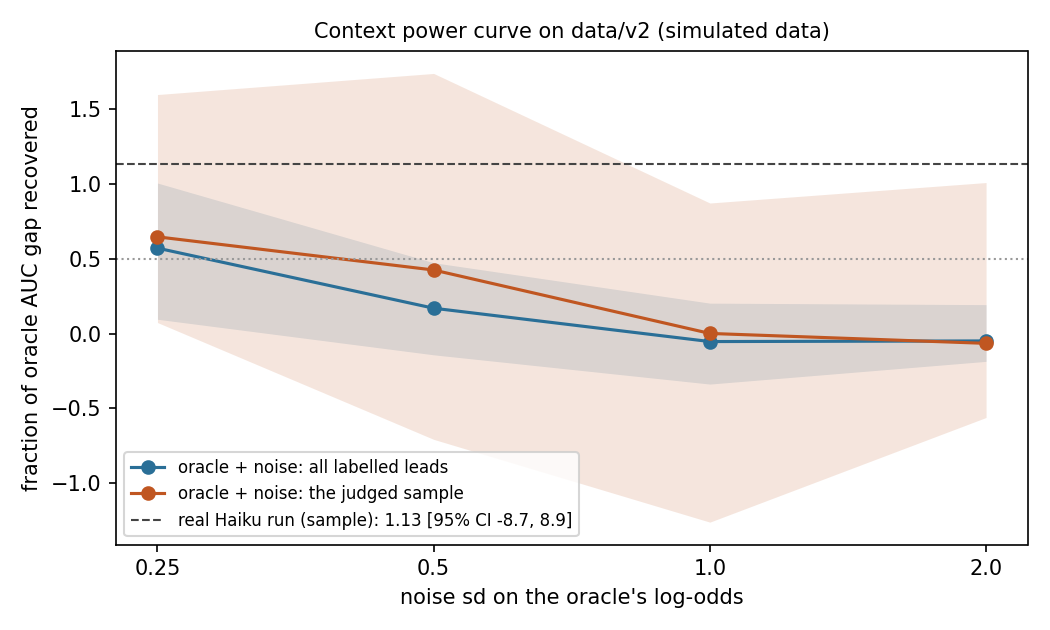
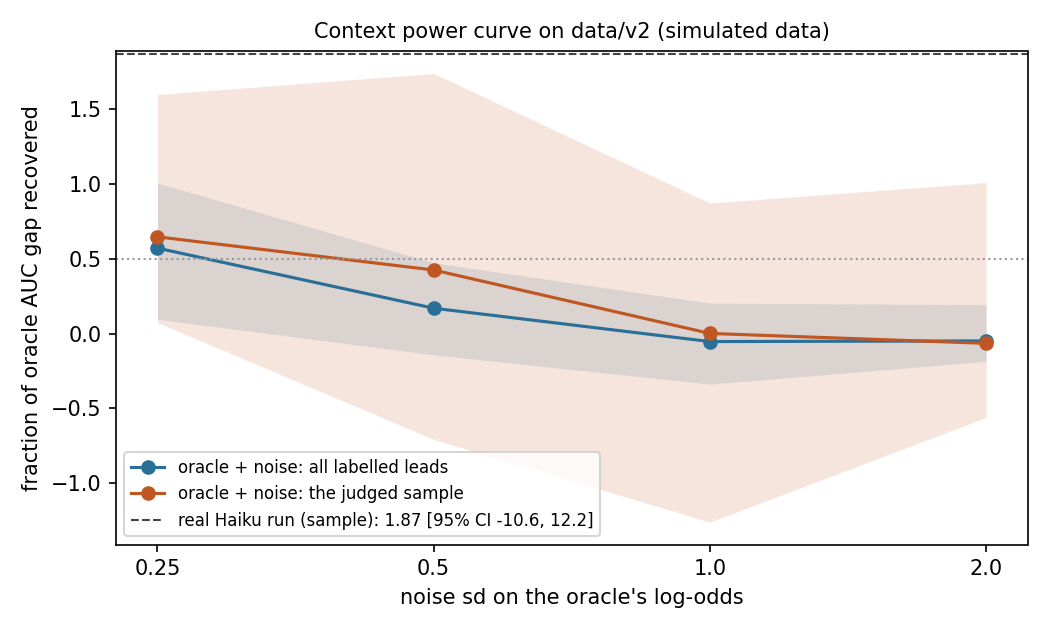
Phase 6 report: orchestrator decisions R12-R15, R12 coefficient row PASS, AUC gap unmeasurable; cache rerun (0 API calls)

Changed region(s): [[0.3657, 0.6937, 0.579, 0.8444]]

diff --git a/reports/phase6.md b/reports/phase6.md
@@ -16,27 +16,50 @@ simulated data** (`data/v2`, generator v2 as merged at 01c56f4).
   detector on the same rows (R6).
 - The context features are close to orthogonal to the formula: combined context score vs formula logit
   r = 0.13; largest single column |r| = 0.33.
-- **But the planted persona is worth very little AUC.** Even the generator's own true probability gains only
+- **The planted persona is worth very little AUC.** Even the generator's own true probability gains only
   0.0037 AUC from the persona term over all labelled leads (0.0095 on the persona-enriched sample); the
-  cross-fitted oracle gap on the sample is 0.0037 [-0.0050, 0.0114], not distinguishable from zero. The
-  "recover more than half of the gap" criterion cannot be passed or failed meaningfully at n = 1,000, and no
-  individual `persona` weight is significant. **Two of the four acceptance criteria fail** (below).
+  cross-fitted oracle gap on the sample is 0.0037 [-0.0050, 0.0114], not distinguishable from zero. Under
+  ruling R12 that criterion is recorded as **unmeasurable** at this effect size (not passed), and acceptance
+  moves to the coefficient level.
+- **R12 coefficient criterion: PASS.** With persona pooled at the feature level (R13), the weight of
+  `ctx_persona_group=non_buyer` next to the formula is **-0.606 [-1.067, -0.179]**, against the oracle
+  persona weight **-0.612 [-1.021, -0.209]** on the same 1,000 rows. Caveat: inside the full combined model
+  (all 13 context columns) the same column is -0.383 [-0.887, 0.156], not significant; the other judgments
+  share part of its signal.
+
+## Orchestrator decisions (review of Phase 6)
+
+- **R12 (ADR 0016).** The AUC-gap criterion ("recover more than half of the planted gap") is recorded as
+  unmeasurable at the planted effect size (oracle gap +0.0037 [-0.005, +0.011]); it is not restated as
+  passed. The acceptance for context features from now on is coefficient-level: the context feature's
+  weight must have a 95% CI excluding zero and lie within the oracle weight's CI on the same rows.
+- **R13 (ADR 0016).** Persona is pooled at the feature level in `emva/context/features.py`:
+  `ctx_persona_group` in {buyer, non_buyer (vendor, student, job_seeker, competitor, nonprofit,
+  agency_pitching), unclear}, reference buyer. The contract enum stays fine-grained (no prompt or contract
+  version bump, no new API calls). **The pooling rule was chosen after seeing the per-level results of this
+  run.** It is applied to the unchanged cached judgments and is now fixed in code, so the next customer run
+  is pre-registered. The per-level weights stay below as secondary, marked underpowered.
+- **R14.** `agency_pitching` stays in the contract; Haiku's vendor/agency confusion (38 of 67 agency leads
+  called `vendor`) is documented, and both pool to non_buyer under R13.
+- **R15.** Sample design (300 persona / 700 other, labelled leads only, seed 0) accepted; cross-fitting is
+  the primary comparison, the time split secondary.
+- ADR 0014 (context contract) is Accepted. `matplotlib` stays pinned in `requirements.txt`. The `.env`
+  loader is shared in `emva/env.py` (agent and `scripts/paraphrase_templates.py`).
 
 ## Acceptance
 
 | criterion | result | evidence | pass/fail |
 |---|---|---|---|
-| Combined model recovers > 1/2 of the planted context-only gap | fraction recovered **1.13 [95% CI -8.66, 8.86]**; formula + context AUC diff 0.0042 [-0.0074, 0.0163] (p 0.47); oracle gap 0.0037 [-0.0050, 0.0114] (p 0.38) | 6.6 table below; gap computed in this harness (Phase 4 oracle numbers were not on `origin` when this finished) | **FAIL** (not demonstrated: the gap itself is not significant, so its fraction has no usable CI) |
-| `persona` weights individually significant | 0 of 7 persona levels have a CI excluding 0 (e.g. competitor -0.35 [-0.97, 0.20], job_seeker -0.14 [-0.79, 0.45]) | weights table below | **FAIL** |
-| Correlation of context features with the formula score reported and < 0.5 | combined context score r = 0.134; max single-column \|r\| = 0.333 (`is_real_business=no`) | correlation table below | PASS |
-| Same brief + model reproduces scores exactly from cache; brief edit gives a new `brief_hash` and a documented retrain | rerun: 1,000 hits, 0 requests, identical CSV; temp brief: new hash, all misses reported by `--dry-run` with no client | `tests/test_context.py::test_committed_cache_reproduces_the_committed_judgments_without_the_api`, `::test_brief_edit_is_a_new_hash_and_dry_run_reports_misses_without_calling`, `::test_dry_run_cli_reports_the_retrain_without_calling`; ADR 0014 | PASS |
+| **R12 (acceptance): pooled persona weight has a 95% CI excluding 0 and lies inside the oracle weight's CI, same rows** | `ctx_persona_group=non_buyer` in formula + `ctx_persona_group`: **-0.606 [-1.067, -0.179]**; oracle persona indicator: **-0.612 [-1.021, -0.209]**. Formula + `ctx_persona_group` AUC +0.0049 [-0.0048, 0.0143] (p 0.30). In the full 13-column combined model the column is -0.383 [-0.887, 0.156] | "R12 acceptance" table below; `emva.eval.context_harness.coefficient_criterion` | **PASS** |
+| Combined model recovers > 1/2 of the planted context-only gap (plan) | fraction recovered 1.87 [95% CI -10.6, 12.2]; formula + context AUC +0.0070 [-0.0051, 0.0195] (p 0.25); oracle gap +0.0037 [-0.0050, 0.0114] (p 0.38); model-free ceiling 0.0037 (all labelled) / 0.0095 (sample) | 6.5 and 6.6 below | **unmeasurable** (R12; not passed) |
+| `persona` weights individually significant (plan, per contract level) | 0 of 7 unpooled levels significant (e.g. competitor -0.35 [-0.97, 0.20]) | secondary table below | superseded by R12/R13 (underpowered at n = 1,000) |
+| Correlation of context features with the formula score reported and < 0.5 | combined context score r = 0.136; max single-column \|r\| = 0.333 (`is_real_business=no`) | correlation table below | PASS |
+| Same brief + model reproduces scores exactly from cache; brief edit gives a new `brief_hash` and a documented retrain | rerun after the R13 change: 1,000 hits, 0 requests, identical CSV; temp brief: new hash, all misses reported by `--dry-run` with no client | `tests/test_context.py::test_committed_cache_reproduces_the_committed_judgments_without_the_api`, `::test_brief_edit_is_a_new_hash_and_dry_run_reports_misses_without_calling`, `::test_dry_run_cli_reports_the_retrain_without_calling`; ADR 0014 | PASS |
 
-Per ground rule 5 the failing criteria are reported, not tuned. Nothing was changed after seeing the results
-except one exploratory line, clearly marked (a pooled non-buyer indicator), which is not used for
-acceptance. For the orchestrator: the evidence says the agent detects the persona (87% recall, 82%
-precision for "non-buyer") and that its pooled persona signal carries the same weight as the oracle
-(-0.64 [-1.09, -0.23] vs oracle -0.61 [-1.02, -0.21] on the same rows), but that the planted effect (-1.0 on
-8% of leads) is too small in AUC terms for the plan's criterion at this sample size. See "Open questions".
+The first submission of this report failed the two plan criteria (AUC gap, per-level persona weights);
+the orchestrator's rulings R12 and R13 replaced them. Nothing was re-run against the API; the pooled
+feature is computed from the same cached judgments. Formula + context AUC moved from +0.0042 to +0.0070
+because the design changed from 18 to 13 columns (unpooled to pooled persona).
 
 ## What was built
 
@@ -44,10 +67,10 @@ precision for "non-buyer") and that its pooled persona signal carries the same w
 |---|---|---|
 | 6.1 contract | `emva/context/contract.py` | `JUDGMENTS` (five enums), `reason` <= 30 words, `RESPONSE_SCHEMA` sent as `output_config` JSON schema (enums enforced server-side), `validate` raises `ContractError` = parse error |
 | 6.2 lead card | `emva/context/card.py` | `LeadCard(what_to_solve, company_typed, job_title, email_domain)`; test asserts no enrichment, spend, CRM, hiring, bucketed answers, telemetry, stage or outcome reaches the text |
-| 6.3 features | `emva/context/features.py` | `ctx_<judgment>` with declared levels, references yes / buyer / specific / none / partial, 18 fixed columns via `design.fixed_design` (ADR 0009); one stamp per file enforced; the legacy `context_score` file still works (baseline byte identity) |
+| 6.3 features | `emva/context/features.py` | `ctx_<judgment>` with declared levels; persona pooled into `ctx_persona_group` (buyer / non_buyer / unclear, `PERSONA_GROUPS`, R13); references yes / buyer / specific / none / partial; 13 fixed columns via `design.fixed_design` (ADR 0009); one stamp per file enforced; the legacy `context_score` file still works (baseline byte identity) |
 | 6.4 runtime | `emva/context/agent.py`, `emva/context/cache.py` | SDK client with `anthropic-workspace-id` (refuses to run without it), SDK retries off; `io.clean` before any call; transport errors (connection, timeout, 408/409/429/5xx) retried 1-2-4-8 s and logged; 400/401/403/404 raise; parse errors recorded and cached, never retried; `(brief_hash, prompt_version, model_id)` + `card_hash` on every row; <= 8 workers; `--dry-run` |
 | pipeline hook | `emva/pipeline.py` | `--context` now goes through `context_features`, which returns the judgment dummies or the legacy `context_logit`; formula vs formula+context on the same rows as in Phase 0 |
-| 6.5 harness | `emva/eval/context_harness.py` | sample, cross-fitting, oracle power curve, gap ratio with shared resamples, weight CIs, confusion, correlation, boilerplate recall, true-probability ceiling |
+| 6.5 harness | `emva/eval/context_harness.py` | sample, cross-fitting, oracle power curve, gap ratio with shared resamples, R12 `coefficient_criterion`, weight CIs (pooled and unpooled), confusion, correlation, boilerplate recall, true-probability ceiling |
 | 6.6 run | `scripts/run_context_agent.py`, `data/v2/context/` | `sample_ids.csv`, `cache.json` (committed), `context_judgments.csv`, `runs.jsonl` (counts per run) |
 
 Prompt (`PROMPT_VERSION = "judgments-v1"`): the system prompt defines each judgment and its values in
@@ -81,7 +104,8 @@ Reproduce: `python -m emva.eval.context_harness evaluate --data data/v2 --plot r
 
 The curve is flat and noisy because the gap it normalises by is tiny: at sd 0.25 the oracle keeps ~60% of
 a 0.0025 to 0.0037 AUC gap, and at sd >= 1 it keeps nothing on average. The real run's point estimate
-(1.13) sits above the curve but its CI spans the whole plot.
+(1.87) sits above the curve but its CI spans far beyond the plot; this is why R12 moves acceptance to
+the coefficient level.
 
 ### 6.5 Power curve (oracle persona feature + noise)
 
@@ -103,6 +127,15 @@ a 0.0025 to 0.0037 AUC gap, and at sd >= 1 it keeps nothing on average. The real
 | 1.000 | 0.780 | 0.001 | -1.262 | 0.873 |
 | 2.000 | 0.779 | -0.066 | -0.562 | 1.010 |
 
+### R12 acceptance: pooled persona weight vs oracle weight (same rows)
+
+| model (formula + ...) | weight of the persona column [95% CI] |
+|---|---|
+| `ctx_persona_group` (buyer / non_buyer / unclear): `ctx_persona_group=non_buyer` | -0.606 [-1.067, -0.179] |
+| true persona indicator (oracle) | -0.612 [-1.021, -0.209] |
+
+CI excludes zero: True; point inside the oracle CI: True. **R12: PASS.** Formula + `ctx_persona_group` AUC 0.7845, diff vs formula 0.0049 [-0.0048, 0.0143], p 0.302. The same column in the full combined model (all 13 context columns): -0.383 [-0.887, 0.156].
+
 ### 6.6 Real run: formula vs formula + context (same rows, cross-fitted)
 
 Rows: 1000 labelled sample leads with an ok judgment (184 wins, 300 with a planted persona). Status counts over the whole file: {'ok': 1000}.
@@ -110,14 +143,32 @@ Rows: 1000 labelled sample leads with an ok judgment (184 wins, 300 with a plant
 | model | AUC (out of fold) | diff vs formula [95% CI] | p |
 |---|---|---|---|
 | formula | 0.7796 | | |
-| formula + context | 0.7838 | 0.0042 [-0.0074, 0.0163] | 0.470 |
+| formula + context | 0.7866 | 0.0070 [-0.0051, 0.0195] | 0.250 |
 | formula + true persona (oracle) | 0.7833 | 0.0037 [-0.0050, 0.0114] | 0.382 |
 
-**Fraction of the oracle gap recovered: 1.131 [-8.656, 8.857]** (shared bootstrap resamples).
+**Fraction of the oracle gap recovered: 1.869 [-10.590, 12.246]** (shared bootstrap resamples).
 
 Oracle persona weight on the same rows: -0.612 [-1.021, -0.209].
 
-#### Context weights (formula + context fit on all rows; 1,000 bootstrap refits)
+#### Context weights (formula + all 13 context columns fit on all rows; 1,000 bootstrap refits)
+
+| feature | n | weight | lo | hi | significant |
+|---|---|---|---|---|---|
+| ctx_is_real_business=no | 102 | -0.131 | -0.859 | 0.550 | False |
+| ctx_is_real_business=unclear | 469 | -0.086 | -0.552 | 0.306 | False |
+| ctx_persona_group=non_buyer | 320 | -0.383 | -0.887 | 0.156 | False |
+| ctx_persona_group=unclear | 193 | 0.399 | -0.167 | 0.997 | False |
+| ctx_problem_specificity=vague | 408 | 0.272 | -0.121 | 0.695 | False |
+| ctx_problem_specificity=boilerplate | 115 | 0.166 | -0.427 | 0.744 | False |
+| ctx_problem_specificity=unrelated | 13 | -0.196 | -0.379 | -0.060 | True |
+| ctx_urgency=now | 54 | 0.525 | 0.007 | 1.029 | True |
+| ctx_urgency=this_quarter | 189 | 0.552 | 0.030 | 1.117 | True |
+| ctx_urgency=researching | 118 | -0.087 | -0.634 | 0.404 | False |
+| ctx_brief_fit=strong | 147 | 0.232 | -0.212 | 0.718 | False |
+| ctx_brief_fit=weak | 180 | -0.154 | -0.598 | 0.316 | False |
+| ctx_brief_fit=none | 432 | -0.180 | -0.751 | 0.312 | False |
+
+#### Secondary, underpowered: unpooled judgments (persona at its eight contract levels)
 
 | feature | n | weight | lo | hi | significant |
 |---|---|---|---|---|---|
@@ -140,10 +191,6 @@ Oracle persona weight on the same rows: -0.612 [-1.021, -0.209].
 | ctx_brief_fit=weak | 180 | -0.164 | -0.616 | 0.295 | False |
 | ctx_brief_fit=none | 432 | -0.306 | -0.799 | 0.126 | False |
 
-#### Exploratory (chosen after seeing the per-level CIs; not the acceptance test): one pooled `judged persona is not buyer/unclear` indicator
-
-320 rows flagged. Weight in formula + indicator: -0.641 [-1.092, -0.228]. AUC 0.7843, diff vs formula 0.0047 [-0.0049, 0.0133], p 0.296.
-
 #### Persona judged vs planted (evaluation only)
 
 | judged persona | agency_pitching | competitor | job_seeker | none | nonprofit |
@@ -159,19 +206,14 @@ Oracle persona weight on the same rows: -0.612 [-1.021, -0.209].
 
 #### Correlation of each context feature with the formula logit
 
-Formula fit on all pre-2026-05-01 labelled leads. Combined context score (context columns x their weights) vs formula logit: r = 0.134. Largest |r| of a single column: 0.333.
+Formula fit on all pre-2026-05-01 labelled leads. Combined context score (context columns x their weights) vs formula logit: r = 0.136. Largest |r| of a single column: 0.333.
 
 | feature | r |
 |---|---|
 | ctx_is_real_business=no | -0.333 |
 | ctx_is_real_business=unclear | -0.220 |
-| ctx_persona=vendor | -0.022 |
-| ctx_persona=student | -0.144 |
-| ctx_persona=job_seeker | 0.035 |
-| ctx_persona=competitor | 0.027 |
-| ctx_persona=nonprofit | -0.004 |
-| ctx_persona=agency_pitching | -0.011 |
-| ctx_persona=unclear | -0.315 |
+| ctx_persona_group=non_buyer | -0.035 |
+| ctx_persona_group=unclear | -0.315 |
 | ctx_problem_specificity=vague | -0.119 |
 | ctx_problem_specificity=boilerplate | -0.135 |
 | ctx_problem_specificity=unrelated | -0.136 |
@@ -195,20 +237,21 @@ Formula fit on all pre-2026-05-01 labelled leads. Combined context score (contex
 | model | auc | brier | top20_wins | top20_revenue |
 |---|---|---|---|---|
 | formula | 0.8100 | 0.1000 | 0.5830 | 0.7660 |
-| context_only | 0.5560 | 0.1229 | 0.3330 | 0.7050 |
-| formula+context | 0.7940 | 0.1030 | 0.5830 | 0.7660 |
+| context_only | 0.5760 | 0.1223 | 0.2500 | 0.7050 |
+| formula+context | 0.8030 | 0.1019 | 0.5830 | 0.7660 |
 
 ### Reading the weights
 
-- Only `urgency=now` (+0.54), `urgency=this_quarter` (+0.56) and `problem_specificity=unrelated` (-0.20, 13
-  rows) have CIs excluding 0. All persona levels point the right way except `unclear`, which gets +0.49: it
-  marks mostly blank or near-empty leads (r = -0.32 with the formula logit), which the formula already
-  penalises, so the context weight partly undoes that penalty.
-- The persona signal is spread over six non-buyer levels with 29 to 76 rows each, under L2 (C = 0.5)
-  shrinkage and alongside 11 other context columns; per-level CIs are about +/-0.6 wide. Pooled into one
-  indicator (exploratory) the same judgments give a significant -0.64, the same as the oracle's -0.61.
-- On the time split (108 test rows), formula + context is below formula (0.794 vs 0.810); with this few
-  rows neither number is informative.
+- In the full combined model only `urgency=now` (+0.53), `urgency=this_quarter` (+0.55) and
+  `problem_specificity=unrelated` (-0.20, 13 rows) have CIs excluding 0. `ctx_persona_group=non_buyer` is
+  -0.38 [-0.89, 0.16] there: next to eleven other context columns (several correlated with persona, e.g.
+  `brief_fit=none`) and under L2 (C = 0.5), part of its signal is shared. On its own next to the formula it
+  matches the oracle (R12 row).
+- `ctx_persona_group=unclear` gets +0.40: it marks mostly blank or near-empty leads (r = -0.32 with the
+  formula logit), which the formula already penalises, so the context weight partly undoes that penalty.
+- Unpooled, the persona signal is spread over six non-buyer levels with 29 to 76 rows each; per-level CIs
+  are about +/-0.6 wide (secondary table).
+- On the time split (108 test rows) no difference is informative.
 
 ## API usage and cost
 
@@ -217,6 +260,7 @@ Formula fit on all pre-2026-05-01 labelled leads. Combined context score (contex
 | probe (`--probe 20`), inspected before the full run | 20 | 0 | 20 | 20 | 0 | 0 |
 | full sample | 1,000 | 20 | 980 | 1,000 | 0 | 0 |
 | rerun (reproducibility) | 1,000 | 1,000 | 0 | 1,000 | 0 | 0 |
+| rerun after R12/R13 | 1,000 | 1,000 | 0 | 1,000 | 0 | 0 |
 | **total** | | | **1,000** (budget 1,300) | | **0** | **0** |
 
 From `data/v2/context/runs.jsonl`. No retries were needed. Cost estimate (token usage was not logged):
@@ -233,31 +277,27 @@ mocked or forbidden by a factory that raises).
    to either model; proportional allocation would give ~86 persona leads, under the plan's 150.
 3. **Gap computed here.** `origin/phase4-eval-hardening` did not exist when this finished, so the oracle gap
    is this harness's own (cross-fitted, same rows), plus a model-free ceiling from `p_close_true`.
-4. **matplotlib** added to `requirements.txt` (3.10.9, imported lazily inside `plot_power_curve`) for the
-   PNG; installed into the shared `.venv`.
-5. **Env loader.** `emva/context/agent.py` has its own `find_dotenv` / `load_env_var` (same behaviour as
-   `scripts/paraphrase_templates.py`): `emva/` must not import from `scripts/`, and that script is outside
-   this phase's files. Unlike the script, the agent refuses to run without `ANTHROPIC_WORKSPACE_ID`.
+4. **matplotlib** added to `requirements.txt`, pinned 3.10.9 (kept by the orchestrator), imported lazily
+   inside `plot_power_curve` for the PNG; installed into the shared `.venv`.
+5. **Env loader** (resolved at review): `emva/env.py` holds `find_dotenv` / `load_env_var`, imported by
+   `emva/context/agent.py` and `scripts/paraphrase_templates.py`. Unlike the script, the agent refuses to
+   run without `ANTHROPIC_WORKSPACE_ID`.
 6. **Legacy context format kept.** `context_features` still accepts `lead_id,context_score` so
    `tests/test_integration.py::test_context_mode_matches_baseline_script` (baseline byte identity) passes.
    The Phase 0 `requests`-based agent code is gone.
 7. **Parse errors are cached** (they are what the model said); only transport errors are left uncached.
-8. **One exploratory analysis** (pooled non-buyer indicator) was added after seeing the per-level CIs; it
-   is labelled as such and not used for acceptance.
+8. **Pooling chosen after the results** (now R13): the pooled persona feature was first shown as an
+   exploratory line after the per-level CIs were seen; the orchestrator made it the design (fixed in code,
+   same cached judgments, no new calls).
 9. **ADR number 0014** as instructed (0012 and 0013 are presumably Phases 3 and 4).
 10. **Brief**: `baseline/business_brief.md` is the committed brief (frozen, not edited).
 
 ## Open questions for the orchestrator
 
-1. **The persona criterion is underpowered by the generator's design.** With the true close probability the
-   persona term is worth 0.0037 AUC over all labelled leads. Options: (a) judge Phase 6 on detection and
-   weight evidence (87% persona recall, pooled weight = oracle weight) and record the AUC criterion as not
-   measurable (an ADR like 0011); (b) judge all 4,230 labelled leads (~3,230 more calls, ~$3.5; the ceiling
-   is still 0.0037); (c) raise the planted effect or share in a generator revision.
-2. **Persona encoding.** Should the design pool the non-buyer personas into one level (decided up front for
-   the next run, not after the fact), given that per-level weights are not estimable at this size?
-3. **Agency vs vendor.** Haiku calls 38 of 67 agency-pitching leads `vendor`. Both are "selling to us"
-   under the brief; merging them in the contract would be a prompt/contract version bump.
+1. **Combined-model persona weight.** R12 is judged on formula + `ctx_persona_group`. In the full combined
+   model the same column is not significant (-0.38 [-0.89, 0.16]). Should the next customer run judge R12
+   on the full model, or keep one feature at a time (as here)?
+2. The earlier questions (criterion power, persona encoding, agency vs vendor) are answered by R12 to R15.
 
 ## Standard report (`make report DATA=data/v2`)
 
